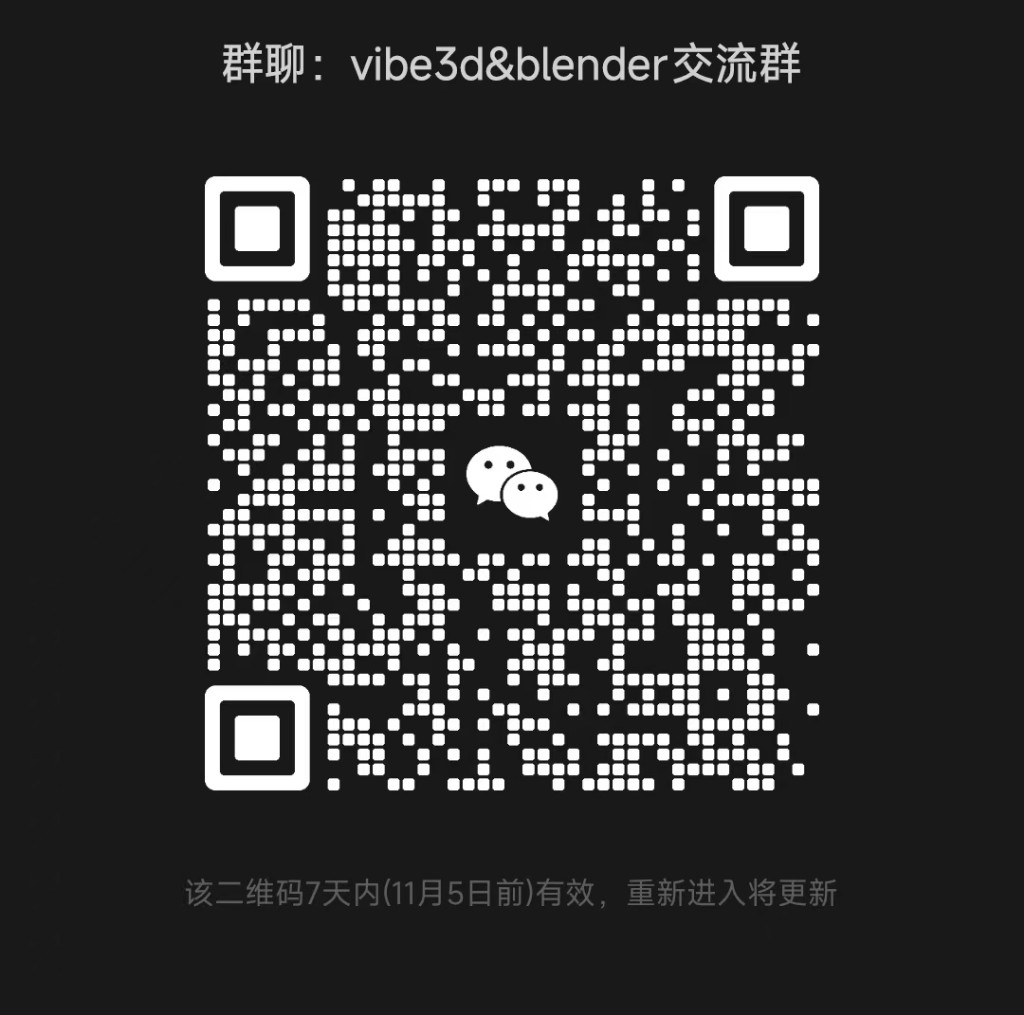
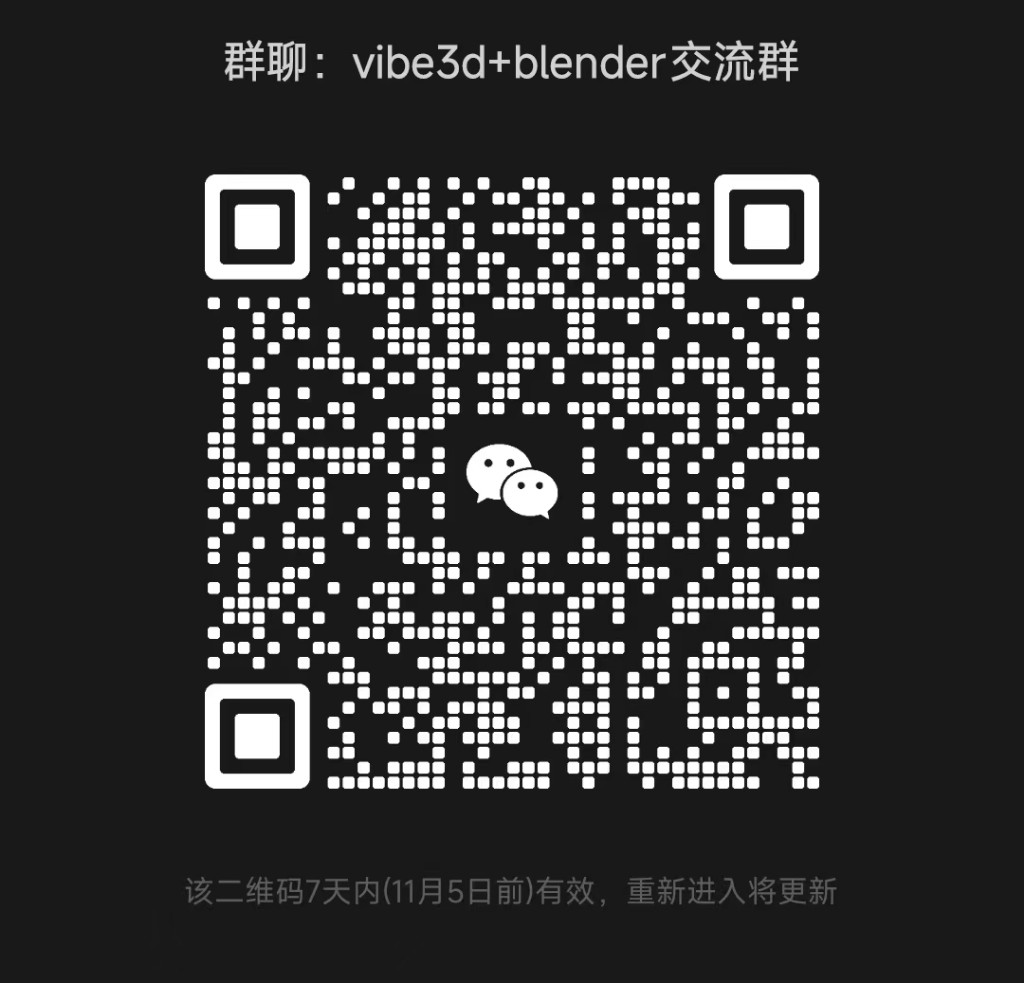
docs: replace the WeChat group QR with the Blender discussion group

diff --git a/README.md b/README.md
@@ -10,8 +10,8 @@ vibe3d is an MCP server for building and rendering 3D scenes. One command starts
 Requires **Node.js >= 20** (same as the [MCP TypeScript SDK v2](https://github.com/modelcontextprotocol/typescript-sdk)). Licensed under [Apache-2.0](./LICENSE).
 
 <p align="center">
-  <img src="./docs/wechat-core-group.jpg" alt="vibe3D core user discussion group" width="252"><br>
-  <strong>vibe3D core user discussion group</strong>
+  <img src="./docs/wechat-core-group.jpg" alt="vibe3D and Blender discussion group" width="252"><br>
+  <strong>vibe3D + Blender discussion group</strong>
 </p>
 
 ## Identity
